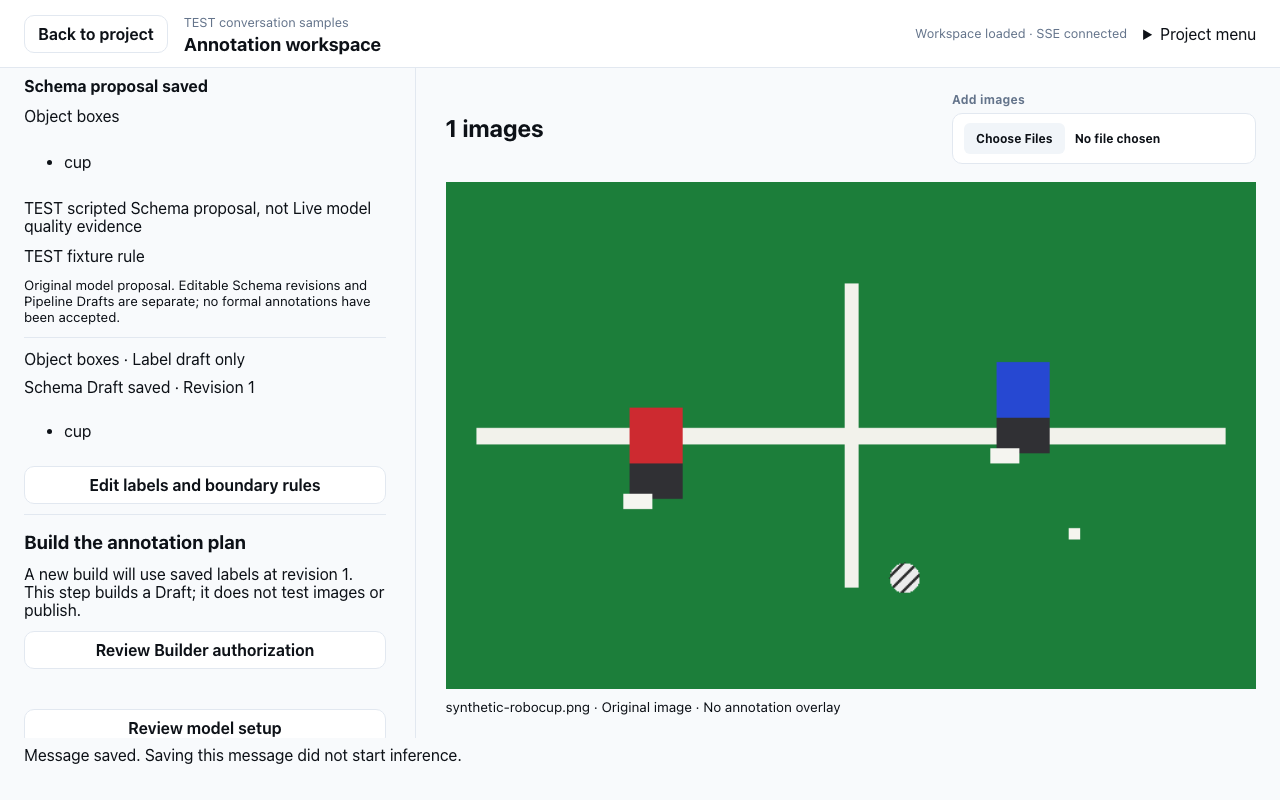
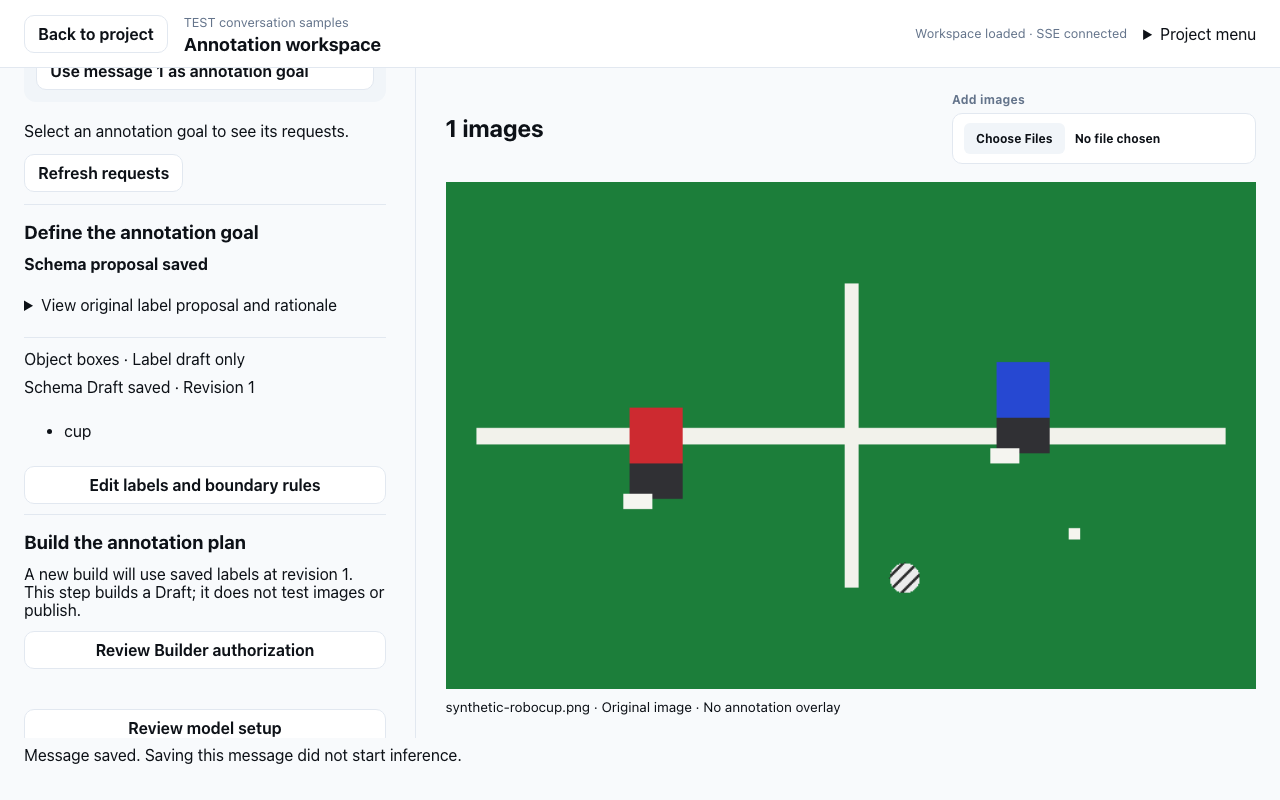
refactor(conversation): fold original schema evidence behind editable labels

Changed region(s): [[0.0, 0.0625, 0.2812, 0.4062]]

diff --git a/web/src/components/ConversationSchemaCard.tsx b/web/src/components/ConversationSchemaCard.tsx
@@ -113,6 +113,7 @@ export function ConversationSchemaCard({ project, conversation, message, onDirty
   const decision = receipt?.evidence?.decision?.Ok;
   const clarification = decision?.decision==="clarify"&&task&&receipt ? {call_id:receipt.id,expected_schema_revision:task.input.schema_revision,question:decision.question??""}:undefined;
   const waiting = Boolean(!manual && !cancelled && callId && (!savedConsent||busy) && (!receipt || receipt.status === "reserved"));
+  const originalProposal = decision && <div className="conversation-proposal-result">{decision.question && <p>{decision.question}</p>}{decision.kind && <p>{decision.kind === "bounding_box" ? "Object boxes" : "Whole-image categories"}</p>}{decision.labels && <ul>{decision.labels.map((label) => <li key={label}>{label}</li>)}</ul>}<p>{decision.rationale}</p>{decision.boundary_rules?.map((rule) => <p key={rule}>{rule}</p>)}<small>Original model proposal. Editable Schema revisions and Pipeline Drafts are separate; no formal annotations have been accepted.</small></div>;
   return <section className="conversation-schema-card" aria-label="Annotation Schema proposal">
     <h3>Define the annotation goal</h3>
     {savedConsent&&!cancelled&&!receipt&&<aside className="conversation-consent" aria-label="Saved Schema authorization"><p>The original Schema request is saved, but no model call was admitted. No automatic retry is running.</p><small>Original model binding retained · Authorization expires {savedConsent.expires_at}. Refreshing the budget does not renew this consent.</small><button disabled={busy} onClick={()=>void prepare()}>Review saved Schema request</button><button disabled={busy} onClick={()=>void stop()}>Cancel saved Schema request</button></aside>}
@@ -125,7 +126,7 @@ export function ConversationSchemaCard({ project, conversation, message, onDirty
     {!manual && !cancelled && preview && !receipt && <div className="conversation-consent" aria-label="Schema model authorization"><ConversationBudgetNotice value={preview.project_call_limit} maximumCalls={preview.maximum_calls} busy={busy || Boolean(callId&&!savedConsent)} onRefresh={()=>void prepare()}/><strong>{preview.model_name}</strong><span>{preview.remote_model} · {preview.destination}</span><p>{preview.data_scope}</p><p>{preview.maximum_calls} model call · {preview.maximum_output_tokens} maximum output tokens · Cost unknown</p><p>{preview.operation}</p>{!savedConsent&&<label><input type="checkbox" checked={confirmed} disabled={busy} onChange={(event) => setConfirmed(event.target.checked)} />Allow this text request; I understand the actual cost is unknown</label>}<div className="button-row"><button disabled={busy} onClick={() => { setPreview(undefined); setConfirmed(false); }}>Back</button><button className="primary" disabled={(!savedConsent&&!confirmed) || busy || ((!callId||Boolean(savedConsent)) && projectBudgetAvailability(preview.project_call_limit).blocked)} onClick={() => void propose()}>{busy ? "Request submitted…" : savedConsent ? "Retry saved Schema request" : callId ? "Retry same request" : "Generate label proposal"}</button></div></div>}
     {waiting && <><p role="status">Request recorded or being submitted. Checking the saved outcome; no automatic model retry.</p><button onClick={() => void stop()}>Stop Schema request</button><small>You may return to the Project; leaving does not cancel this request.</small></>}
     {!manual && preview && !receipt && <p className="muted">A valid label proposal is saved as an editable Draft automatically. It does not change the Project's formal labels, build a pipeline or start image processing.</p>}
-    {!manual && decision && <div className="conversation-proposal-result"><strong>{decision.decision === "clarify" ? cancelled ? "Original question · Cancelled" : "Clarification needed" : "Schema proposal saved"}</strong>{decision.question && <p>{decision.question}</p>}{decision.kind && <p>{decision.kind === "bounding_box" ? "Object boxes" : "Whole-image categories"}</p>}{decision.labels && <ul>{decision.labels.map((label) => <li key={label}>{label}</li>)}</ul>}<p>{decision.rationale}</p>{decision.boundary_rules?.map((rule) => <p key={rule}>{rule}</p>)}<small>Original model proposal. Editable Schema revisions and Pipeline Drafts are separate; no formal annotations have been accepted.</small></div>}
+    {!manual && decision && <><strong>{decision.decision === "clarify" ? cancelled ? "Original question · Cancelled" : "Clarification needed" : "Schema proposal saved"}</strong>{decision.decision === "draft" ? <details className="conversation-proposal-details" key={receipt?.id}><summary>View original label proposal and rationale</summary>{originalProposal}</details> : originalProposal}</>}
     {!manual && receipt && receipt.status !== "reserved" && !decision && <p role="alert">{receipt.evidence?.error || receipt.evidence?.decision?.Err || "No valid Schema proposal was produced. Saved evidence is retained; no automatic retry."}</p>}
     {!manual && decision?.decision === "draft" && task && receipt && <ConversationSchemaEditor key={receipt.id} project={project} conversation={conversation} task={task.input.id} call={receipt.id} onDirtyChange={onDirtyChange} onSample={onSample} onAssistance={onAssistance} />}
     {error && <p role="alert">{error}</p>}

diff --git a/web/e2e/conversation-schema.spec.ts b/web/e2e/conversation-schema.spec.ts
@@ -134,10 +134,25 @@ test("authorized conversation Schema crosses actual HTTP Provider transport once
   await expect(page.getByText("Schema proposal saved",{exact:true})).toBeVisible();
   await page.reload();
   await expect(page.getByText("Schema proposal saved",{exact:true})).toBeVisible();
-  await expect(page.getByText("Object boxes",{exact:true})).toBeVisible();
+  const originalProposal=page.locator(".conversation-proposal-details");
+  await expect(originalProposal).not.toHaveAttribute("open", "");
+  await expect(originalProposal.getByText("Object boxes",{exact:true})).toBeHidden();
+  const proposalToggle=originalProposal.locator("summary");
+  let detailWrites=0;
+  const countDetailWrites=(req:{method:()=>string;url:()=>string})=>{
+    if(!["GET","HEAD","OPTIONS"].includes(req.method())&&req.url().includes("/api/"))detailWrites++;
+  };
+  page.on("request",countDetailWrites);
+  await proposalToggle.focus();
+  await page.keyboard.press("Enter");
+  await expect(originalProposal.getByText("Object boxes",{exact:true})).toBeVisible();
+  await page.keyboard.press("Enter");
+  await expect(originalProposal.getByText("Object boxes",{exact:true})).toBeHidden();
+  await expect(proposalToggle).toBeFocused();
+  page.off("request",countDetailWrites);
+  expect(detailWrites).toBe(0);
   await expect(page.getByText("Schema Draft saved · Revision 1",{exact:true})).toBeVisible();
   await expect(page.getByRole("button",{name:"Save as editable Schema Draft",exact:true})).toHaveCount(0);
-  await expect(page.getByText("Schema Draft saved · Revision 1",{exact:true})).toBeVisible();
   await page.getByRole("button",{name:"Edit labels and boundary rules",exact:true}).click();
   await page.getByLabel("Labels · one per line",{exact:true}).fill("TEST edited cup");
   await expect(page.getByText("Unsaved edits · Based on revision 1",{exact:true})).toBeVisible();
@@ -225,7 +240,7 @@ test("authorized conversation Schema crosses actual HTTP Provider transport once
   await page.getByRole("checkbox",{name:/Allow this text request/}).check();
   let release!: () => void;
   const held = new Promise<void>((resolve)=>{release=resolve;});
-  await page.route("**/schema-proposals",async(route)=>{await held;await route.continue();},{times:1});
+  await page.route("**/schema-proposals",async(route)=>{await held;await route.fallback();},{times:1});
   const submitted = page.waitForRequest((req)=>req.method()==="POST" && req.url().endsWith("/schema-proposals"));
   await page.getByRole("button",{name:"Generate label proposal",exact:true}).click();
   const pending = await submitted;

diff --git a/web/src/components/conversation-workspace.css b/web/src/components/conversation-workspace.css
@@ -48,6 +48,10 @@
 .conversation-completed-stage > summary span { display: block; margin-inline-start: 1.1em; font-size: .85rem; color: var(--aa-text-muted); }
 .conversation-completed-stage > div { display: grid; gap: 12px; padding-block: 12px; min-width: 0; }
 .conversation-completed-stage > summary:focus-visible { outline: 2px solid var(--aa-primary); outline-offset: 3px; border-radius: 4px; }
+.conversation-proposal-details { min-width: 0; }
+.conversation-proposal-details > summary { cursor: pointer; padding-block: 8px; line-height: 1.5; overflow-wrap: anywhere; }
+.conversation-proposal-details > summary:focus-visible { outline: 2px solid var(--aa-primary); outline-offset: 3px; border-radius: 4px; }
+.conversation-proposal-details > div { padding-block: 12px; }
 .conversation-sample-card, .conversation-sample-canvas { display: grid; gap: 14px; min-width: 0; overflow-wrap: anywhere; }
 .conversation-sample-card { padding-block: 16px; border-block-start: 1px solid var(--aa-border); }
 .conversation-sample-canvas header { display: grid; gap: 6px; }

diff --git a/docs/execution/CONVERSATIONAL_WORKSPACE_STATUS.md b/docs/execution/CONVERSATIONAL_WORKSPACE_STATUS.md
@@ -1,12 +1,15 @@
 # Conversational Annotation Workspace — execution record
 
-## Current checkpoint (after `c13f92d`; not a completion declaration)
+## Current checkpoint (after `54ae0d5`; not a completion declaration)
 
 The default Project entry now uses the persisted conversation/image workspace. Explicit goal
 selection survives re-entry, sample candidate references are frozen, and clarification/correction
 requests can be saved, cancelled or (for corrections) deferred/reopened without resetting budgets.
 The isolated bbox/classification tests exercise real Rust services through TEST HTTP model
 transports, including correction, revision, formal confirmation, review and export.
+Authorized valid Schema proposals now become editable Drafts without a separate local-save
+click; idempotent retry preserves subsequent human edits and never issues another model call.
+Stop/pause commands have a separately bounded admission lane under ordinary write saturation.
 
 Still incomplete: the bounded coordinator that advances through Schema/Builder/sample stages
 under one matching authorization; automatic interpretation of scoped conversational feedback;
@@ -2392,3 +2395,33 @@ seconds. Re-inspected the regenerated automatic-label-draft screenshot: the bott
 correctly describes message saving only; saved revision 1 and label editing are immediately
 available. Final Web typecheck and 123 unit tests passed, as did server Clippy and format checks.
 These are isolated TEST results, not Live inference quality or human usability evidence.
+
+### M2 continuation — keep original Schema evidence available without duplicating the working labels
+
+The inspected automatic-label-draft screenshot showed the same labels twice: the original
+model proposal and the current editable revision. Only completed draft proposals now put their
+original output/rationale in a native same-page details disclosure. The editable saved labels,
+authorization entry and any real clarification question remain directly visible. This is not a
+new modal, route, execution or store; folding history does not hide a question awaiting an answer.
+Native summary keeps keyboard activation/focus and uses the established color/font tokens.
+The Schema browser test checks collapsed content after refresh, Enter to open/close, restored
+summary focus, then continues actual editing/Builder/cancellation. Existing clarification and
+five terminal sample scenarios are being rerun in isolation. Web typecheck, 123 unit tests and
+production build passed; the existing >500 kB chunk warning remains.
+
+Combined `/tmp/annotagent-guided-e2e-28294` passed 7/8 in 2.4 minutes: both clarification
+paths and all five sample scenarios passed. The final Schema test's held cancellation request
+used `route.continue`, bypassing TEST-only mutation pacing, and received a pre-execution 429
+instead of the expected cancellation 400. Changed that interceptor to `route.fallback`, like
+the existing held Builder test; production limits/retry semantics are unchanged. The native
+proposal disclosure also explicitly checks no API writes on keyboard open/close. Inspected the
+updated automatic-label-draft screenshot: the duplicate proposal is folded, with editable labels
+visible. It also exposes a separate legacy message→Schema task synchronization gap: the parent
+request panel can still say “Select an annotation goal” after the child creates a task.
+
+Schema-only `/tmp/annotagent-guided-e2e-28518` passed 1/1 in 8.1 seconds. Final combined
+rerun `/tmp/annotagent-guided-e2e-28593` passed all 8/8 in 2.4 minutes, including the final
+held-request fallback and keyboard/no-write checks. Format/diff checks passed. No full Rust
+suite was rerun for this presentation-only follow-up; the preceding Schema Rust tests and
+Clippy evidence remain scoped to `54ae0d5`. No Live/real-human validation, user data mutation,
+push or remote change. The full coordinator and other gaps listed at the top remain unfinished.
